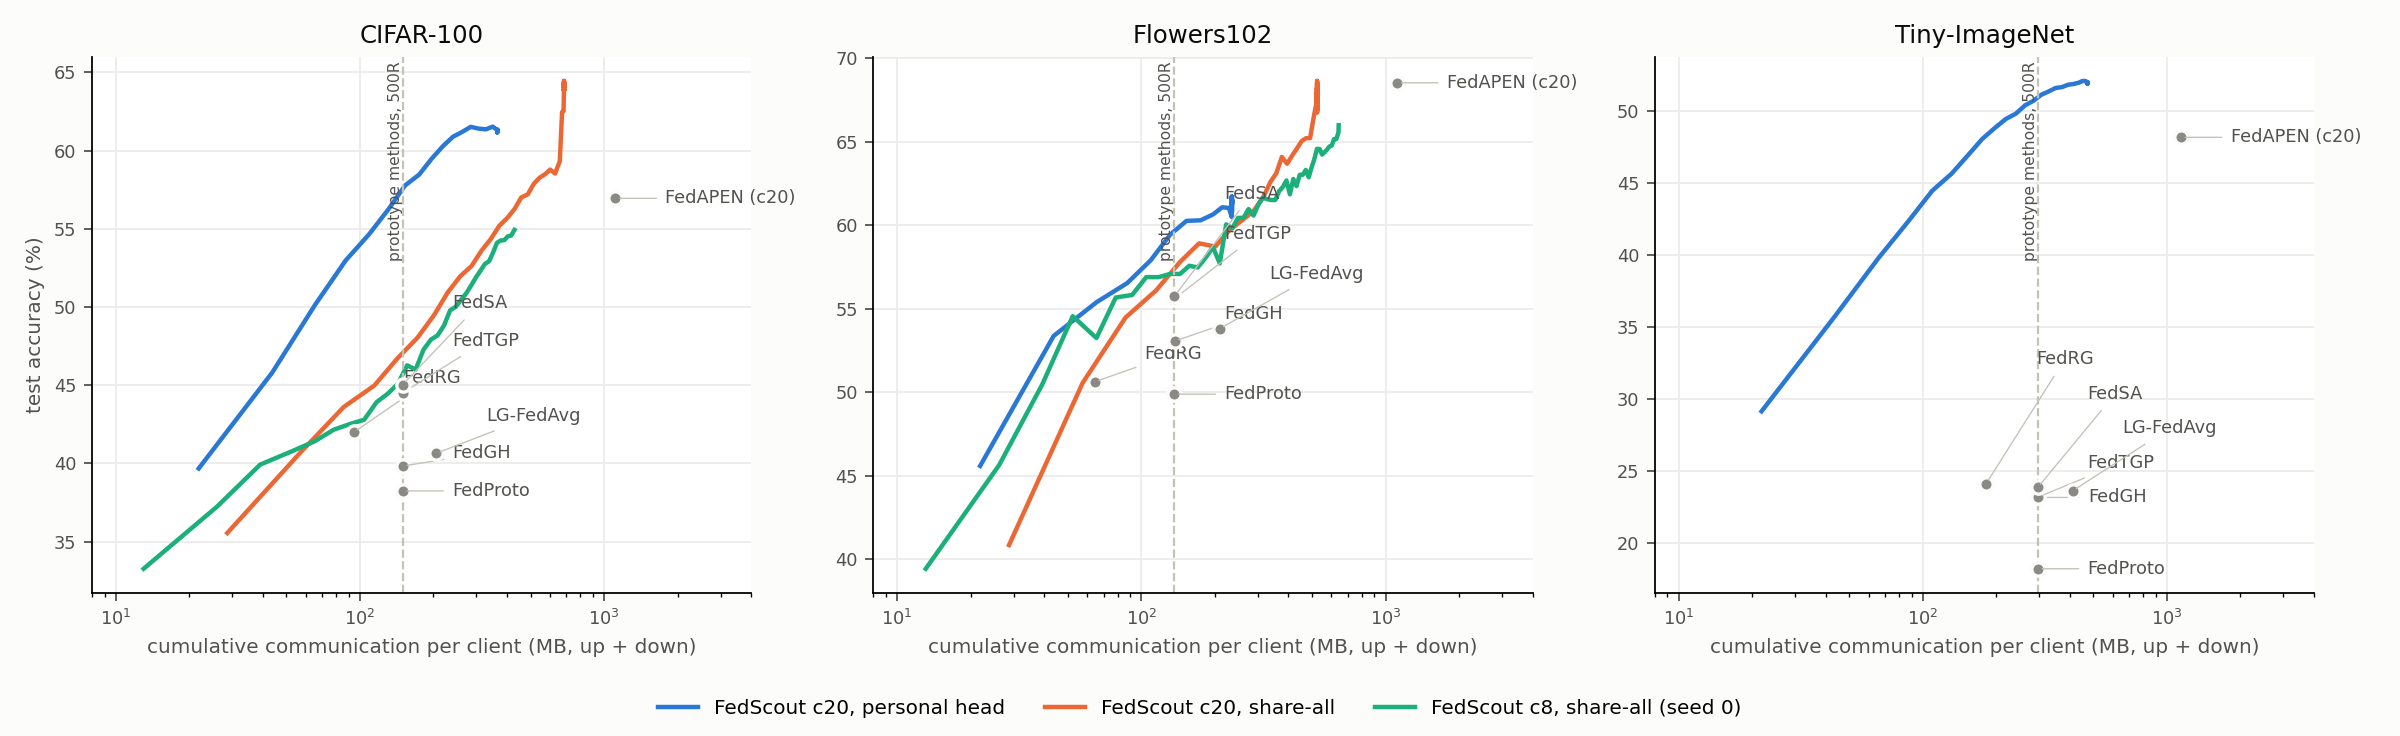
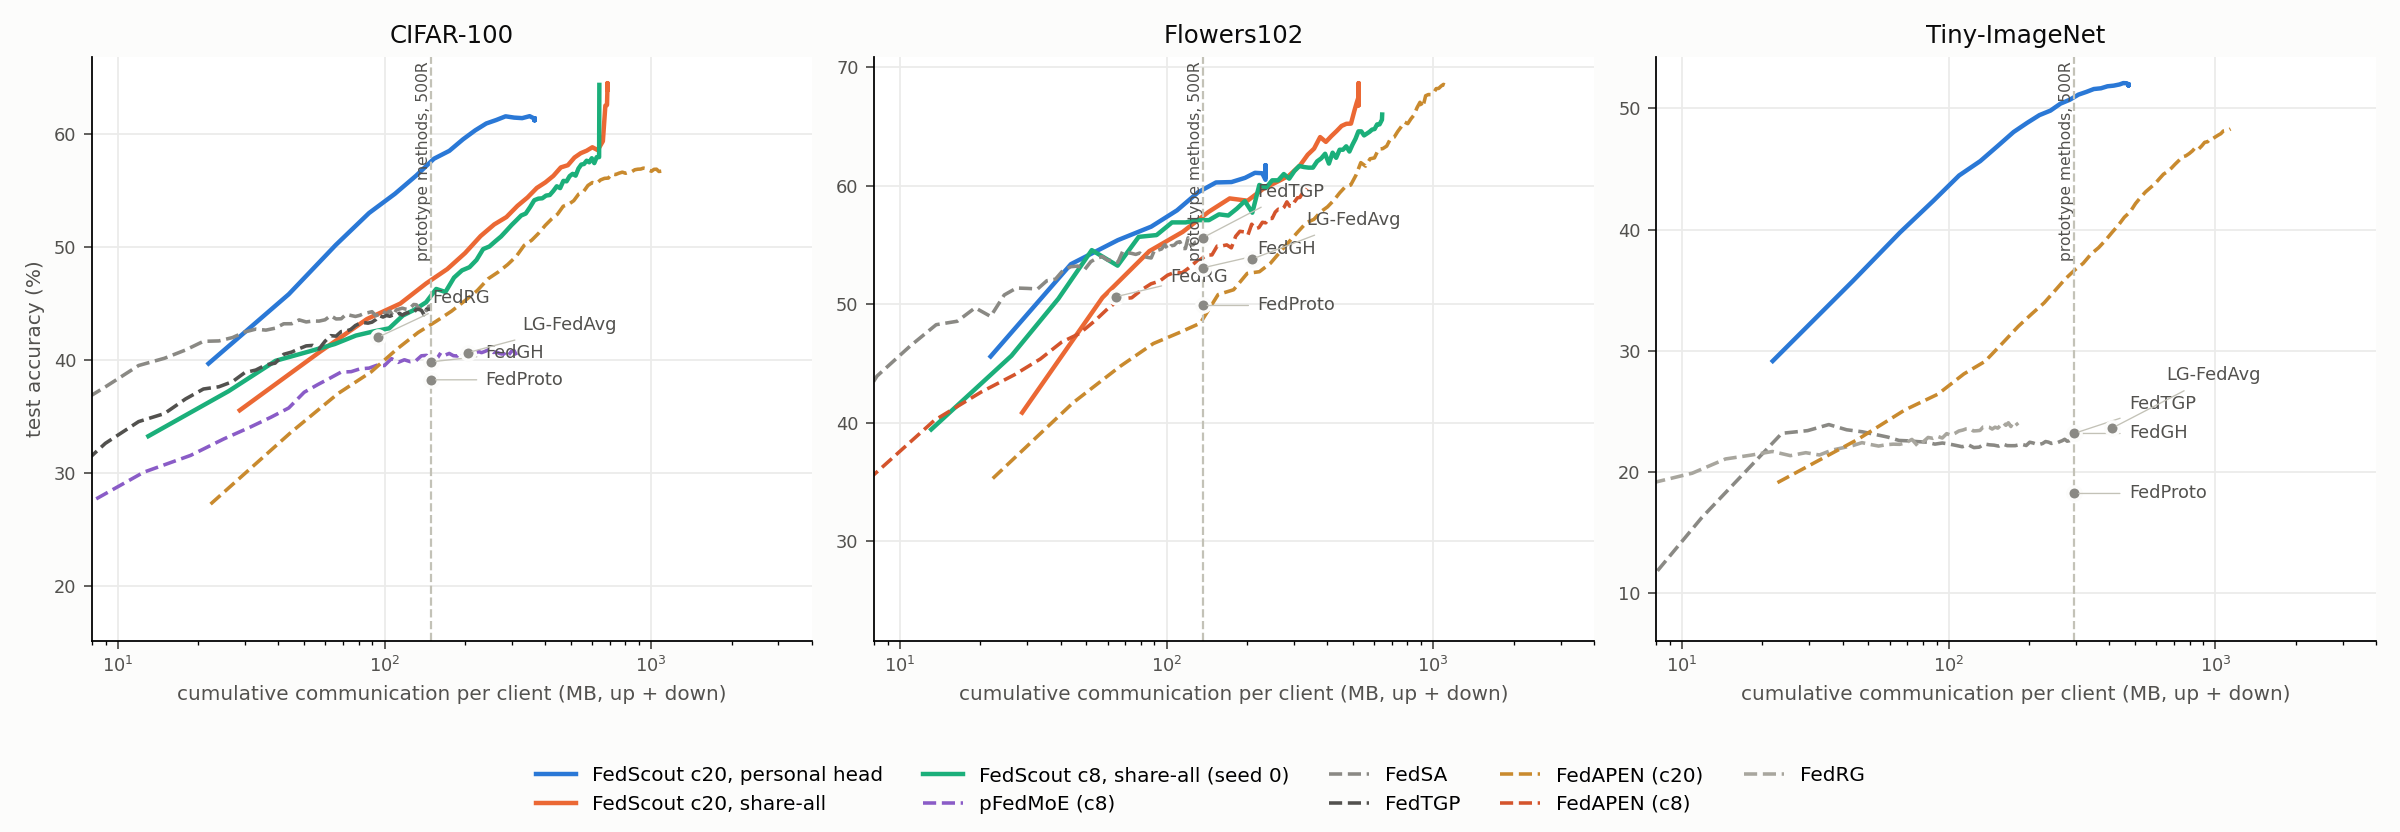
Paper direction: where knowledge flows in HtFL, and a cheap design for it
- docs/experiment_plan.md section 0: claims C1-C5 (knowledge flows only
  between same-architecture weights; heterogeneous private models add only
  the local class prior; the shared model memorizes; FedScout; efficiency),
  current evidence, risks and answers.
- docs/twin_handoff.md: summary follows the c8 / personal-head design, F3
  reworded (averaged head is weak only early), F5 (private = class prior).
- comm_vs_acc: FedTGP (CIFAR) and FedRG (Tiny) seed curves from the user's
  logs, legend spacing; figure and table regenerated.

diff --git a/system/comm_vs_acc.py b/system/comm_vs_acc.py
@@ -41,6 +41,8 @@ CURVE_BASE = [  # label, seed TSV glob, per-round floats per client (up + down),
     ("pFedMoE (c8)", "../docs/figs/data/pfedmoe_c8_{d}_s[0-2].tsv", 2 * 78064, "#8a5cc7"),
     # per-round floats as a method name = per_round_floats(name, dataset); exported on ariel from the baseline logs
     ("FedSA", "../docs/figs/data/fedsa_{d}_s[0-2].tsv", "FedSA", "#8a8984"),
+    ("FedTGP", "../docs/figs/data/fedtgp_{d}_s[0-2].tsv", "FedTGP", "#52514e"),  # user's log (-t 3, seed arg 0)
+    ("FedRG", "../docs/figs/data/fedrg_{d}_s[0-2].tsv", "FedRG", "#a8a69e"),  # user's log (-t 3, seed arg 0)
     ("FedAPEN (c20)", "../docs/figs/data/fedapen_c20_{d}_s[0-2].tsv", "FedAPEN (c20)", "#c98a2e"),
     ("FedAPEN (c8)", "../docs/figs/data/fedapen_c8_{d}_s[0-2].tsv", "FedAPEN (c8)", "#d4542c"),
 ]
@@ -102,7 +104,7 @@ if args.export:
     raise SystemExit(f"wrote {len(pts)} rounds to {args.export[1]}")
 os.makedirs(os.path.dirname(args.out), exist_ok=True)
 
-fig, axes = plt.subplots(1, 3, figsize=(15, 4.6))
+fig, axes = plt.subplots(1, 3, figsize=(15, 5.2))
 rows = []
 for j, (d, ax) in enumerate(zip(DATA, axes)):
     proto_budget = mb(per_round_floats("FedTGP", d)) * ROUNDS
@@ -153,9 +155,9 @@ leg = {}  # union over panels: a curve may exist for only some datasets (FedAPEN
 for a in axes:
     for hh, ll in zip(*a.get_legend_handles_labels()):
         leg.setdefault(ll.split(" (n=")[0], hh)
-fig.legend(list(leg.values()), list(leg), fontsize=9, frameon=False, loc="lower center", ncol=4)
+fig.legend(list(leg.values()), list(leg), fontsize=9, frameon=False, loc="lower center", ncol=5)
 fig.patch.set_facecolor("#fcfcfb")
-fig.tight_layout(rect=(0, 0.07, 1, 1))
+fig.tight_layout(rect=(0, 0.12, 1, 1))
 fig.savefig(args.out, dpi=160, facecolor=fig.get_facecolor())
 print(f"saved {args.out}")
 

diff --git a/docs/experiment_plan.md b/docs/experiment_plan.md
@@ -2,14 +2,26 @@
 
 목표: IoT-J급 IEEE 저널. 실험 규칙과 기존 결과는 `docs/twin_handoff.md`, 매일의 판정은 `system/logs/night_actions_20261117.md`.
 
-## 0. 논문 주장과 그것을 받치는 실험
+## 0. 논문 방향과 주장 (11-19 사용자 결정)
 
-| 주장 | 내용 | 받치는 실험 |
-|---|---|---|
-| C1 진단 | 증강이 없는 HtFL에서 구조 간 채널(프로토타입, 앵커, logit, 생성기)은 Local과 같다. 같은 구조 가중치 평균만 지식을 옮긴다 | 3절 본 표의 Local·HtFL 기준선, 6절 진단 |
-| C2 방법 | 공유 쌍둥이(안정) + 이기종 private 잔차(가소) + 암기 게이트 + 재정렬 + 전역 held-out α | 3절 본 표, 4절 ablation |
-| C3 효율 | 동결 후 통신 0, 쌍둥이 게이트로 private 학습·추론 연산 절감, 동결 후 특징 캐시 | 7절 통신·기기 측정 |
-| (부록) 배포 | 원래 모델만 배포해야 할 때는 I1 변형(`--scout_residual i1`)으로 약 43(Local·HtFL 수준, F1과 일치). 본 주장에서 제외(11-19 사용자 결정: 결합 logit이 본 결과). 동결 후 회복은 폐기(결합 이득 없음, screening과 충돌, I1이 더 높음) | 4절 P2 vs I1 ablation |
+**한 줄: 이기종 FL에서 지식이 실제로 어디로 흐르는지 밝히고, 그에 맞춘 싼 설계(FedScout)를 제안한다.**
+노벨티는 새 구조가 아니라 발견과 효율에 건다. 정확도는 같은 용량(c8) 기준선을 이기면 충분하고, 표적은 통신·연산·속도·분석이다.
+
+| 주장 | 내용 | 근거 (11-19 현재) | 받치는 실험 |
+|---|---|---|---|
+| C1 지식은 같은 구조끼리만 흐른다 | 증강 없는 HtFL에서 구조 간 채널(prototype, anchor, logit, 생성기)은 Local과 같고, 같은 구조의 가중치 평균만 지식을 옮긴다 | handoff F1·F2 (평균한 쌍둥이 vs 평균하지 않은 쌍둥이 +11) | 3절 Local·HtFL 기준선, 6절 진단 |
+| C2 이기종 private은 지역 클래스 분포만 더한다 | 공유+private 방법의 앙상블 이득은 "공유 모델 + log 지역 클래스 비율"로 거의 다 재현된다 | FedAPEN c8 CIFAR R150: 공유+비율 44.1 ≥ 앙상블 42.2 (private 38.1). FedScout c8 shareall: scout+비율 65.3 ≥ 결합 64.5 (Flowers), 58.8 > 54.4 (CIFAR R280). 개인 head에서 learner 기여 0~0.5 | `APENDiag shared+prior`, `ScoutEval scout_prior` (본 표 run에서 3 seed로 확인) |
+| C3 공유 모델은 암기하고, 기준선도 후반에 떨어진다 | 평균되는 작은 모델은 결국 클라이언트 데이터를 암기한다 | handoff F4 (게이트 train−held-out 0 → 9~11), FedSA Tiny 최고 R60 뒤 하락 (23.92 → R500 22.79) | 6절, 기준선 곡선 |
+| C4 설계 FedScout | 지식 전달은 작은 동종 scout(c8, backbone만 평균, 개인 head)에 맡기고, 이기종 private은 scout 위 잔차(P2)로 두되 scout이 이미 맞히는 샘플은 학습·추론에서 건너뛴다(screening, cascade). 멈춤 규칙 없이 통신량 대비 정확도 곡선으로 보고(patience 게이트는 부록의 자동 기본값) | — | 3절 본 표, 4절 ablation |
+| C5 효율 | 같은 통신량에서 가장 높고, 공유 모델 방식과 같은 정확도를 3~4배 적은 통신으로 낸다. private 학습 샘플 −70%, 추론 때 private 실행 약 25% | c20 개인 head: prototype 500R 예산에서 CIFAR +11.3, Flowers +3.6, Tiny +26.5. FedAPEN c20의 같은 통신량 대비 +7.7~+11.1. c8 Flowers 58.3 @81MB, FedAPEN c8은 282MB 필요 | `docs/figs/comm_vs_acc_draft.*` (`system/comm_vs_acc.py`), 7절 기기 측정 |
+| (부록) | shareall 변형(정확도 더 높음, 통신 2배, FedAvg-FT 패턴과 겹침), 우리 원칙을 FedAPEN에 적용(apenph), I1 배포 변형(원래 모델만 배포), c20 용량 표 | | 4절 |
+
+**위험과 대응**
+- 노벨티: 정확도 대부분이 scout에서 나오고 learner 기여가 작다. 숨기지 않고 C2로 분석의 중심에 둔다. "작은 동종 모델 + FedRep" 반론에는 C1~C3 발견과 C5 효율로 답한다.
+- 우리만 튜닝(scout lr×3, linear projector): apenph(FedAPEN + 우리 원칙), FedScout + pool projector ablation 1 run.
+- 적은 예산(c20 기준 약 25~50MB 이하)에서는 prototype 방식이 앞선다. c8 개인 head 곡선으로 확인하고, 안 되면 주장 범위를 그 이상의 예산으로 한정한다.
+- 본 표에는 500R 최종 정확도와 "같은 통신량에서의 정확도"를 함께 넣는다. Flowers 최종값은 FedAPEN이 통신 3~4배로 앞설 수 있다.
+- IoT 주장에는 Jetson Nano·Raspberry Pi 실측이 필요하다(`system/device_bench.py`).
 
 FedDSA(이중 앵커)는 쓰지 않는다(11-18 사용자 결정). 논문에서도 다루지 않는다.
 

diff --git a/docs/figs/comm_vs_acc_draft.md b/docs/figs/comm_vs_acc_draft.md
@@ -1,35 +1,37 @@
-# 통신량 대비 정확도 (초안, 2026-11-19 15:00 KST, `system/comm_vs_acc.py`)
+# 통신량 대비 정확도 (초안, 2026-11-19 16:07 KST, `system/comm_vs_acc.py`)
 
-그림: `comm_vs_acc_draft.png`. 기준선은 500R 결과 하나뿐이라 점, FedScout는 seed 평균 곡선. 예산 안 최고값은 seed 평균 곡선에서 누적 MB가 예산 이하인 라운드들의 최고값.
+그림: `comm_vs_acc_draft.png`. FedScout와 곡선이 있는 기준선(TSV, `docs/figs/data/`)은 seed 평균 곡선, 나머지 기준선은 500R 점. 예산 안 최고값은 누적 MB가 예산 이하인 라운드들의 seed 평균 곡선 최고값.
 
 | dataset | method | best within prototype-500R budget | best within FedAPEN-c20-500R budget | best overall | MB used |
 |---|---|---|---|---|---|
 | Cifar100 | FedScout c20, personal head (n=3, R500) | 56.27 | 61.54 | 61.54 | 365 |
 | Cifar100 | FedScout c20, share-all (n=3, R500) | 46.75 | 64.46 | 64.46 | 685 |
-| Cifar100 | FedScout c8, share-all (seed 0) (n=1, R330) | 45.09 | 54.93 | 54.93 | 429 |
+| Cifar100 | FedScout c8, share-all (seed 0) (n=1, R500) | 45.09 | 64.30 | 64.30 | 639 |
+| Cifar100 | pFedMoE (c8) (n=1, R500) | 40.40 | 40.92 | 40.92 | 312 |
+| Cifar100 | FedSA (n=3, R500) | 44.89 | 44.89 | 44.89 | 150 |
+| Cifar100 | FedTGP (n=3, R500) | 44.51 | 44.51 | 44.51 | 150 |
+| Cifar100 | FedAPEN (c20) (n=3, R500) | 42.42 | 56.95 | 56.95 | 1113 |
 | Cifar100 | FedProto (500R) | 38.24 | 38.24 | 38.24 | 150 |
 | Cifar100 | FedGH (500R) | 39.83 | 39.83 | 39.83 | 150 |
 | Cifar100 | LG-FedAvg (500R) | - | 40.64 | 40.64 | 205 |
 | Cifar100 | FedRG (500R) | 41.98 | 41.98 | 41.98 | 94 |
-| Cifar100 | FedTGP (500R) | 44.51 | 44.51 | 44.51 | 150 |
-| Cifar100 | FedSA (500R) | 45.02 | 45.02 | 45.02 | 150 |
-| Cifar100 | FedAPEN (c20) (500R) | - | 56.95 | 56.95 | 1113 |
 | Flowers102 | FedScout c20, personal head (n=3, R500) | 59.43 | 61.72 | 61.72 | 235 |
 | Flowers102 | FedScout c20, share-all (n=3, R500) | 56.09 | 68.64 | 68.64 | 525 |
 | Flowers102 | FedScout c8, share-all (seed 0) (n=1, R500) | 57.08 | 65.99 | 65.99 | 643 |
+| Flowers102 | FedSA (n=3, R500) | 55.59 | 55.59 | 55.59 | 137 |
+| Flowers102 | FedAPEN (c20) (n=3, R500) | 48.39 | 68.53 | 68.53 | 1114 |
+| Flowers102 | FedAPEN (c8) (n=3, R500) | 53.79 | 59.74 | 59.74 | 336 |
 | Flowers102 | FedProto (500R) | 49.88 | 49.88 | 49.88 | 137 |
 | Flowers102 | FedRG (500R) | 50.62 | 50.62 | 50.62 | 65 |
 | Flowers102 | FedGH (500R) | 53.06 | 53.06 | 53.06 | 137 |
 | Flowers102 | LG-FedAvg (500R) | - | 53.80 | 53.80 | 209 |
 | Flowers102 | FedTGP (500R) | 55.60 | 55.60 | 55.60 | 137 |
-| Flowers102 | FedSA (500R) | 55.75 | 55.75 | 55.75 | 137 |
-| Flowers102 | FedAPEN (c20) (500R) | - | 68.53 | 68.53 | 1114 |
 | TinyImagenet | FedScout c20, personal head (n=3, R500) | 50.72 | 52.09 | 52.09 | 472 |
+| TinyImagenet | FedSA (n=3, R500) | 23.92 | 23.92 | 23.92 | 296 |
+| TinyImagenet | FedRG (n=3, R500) | 24.15 | 24.15 | 24.15 | 182 |
+| TinyImagenet | FedAPEN (c20) (n=3, R500) | 36.66 | 48.31 | 48.31 | 1139 |
 | TinyImagenet | FedProto (500R) | 18.24 | 18.24 | 18.24 | 296 |
 | TinyImagenet | FedGH (500R) | 23.19 | 23.19 | 23.19 | 296 |
 | TinyImagenet | FedTGP (500R) | 23.20 | 23.20 | 23.20 | 296 |
 | TinyImagenet | LG-FedAvg (500R) | - | 23.64 | 23.64 | 410 |
-| TinyImagenet | FedSA (500R) | 23.88 | 23.88 | 23.88 | 296 |
-| TinyImagenet | FedRG (500R) | 24.15 | 24.15 | 24.15 | 182 |
-| TinyImagenet | FedAPEN (c20) (500R) | - | 48.18 | 48.18 | 1139 |
 budgets (MB per client): Cifar100: prototype 150, FedAPEN-c20 1113, Flowers102: prototype 137, FedAPEN-c20 1114, TinyImagenet: prototype 296, FedAPEN-c20 1139

diff --git a/docs/twin_handoff.md b/docs/twin_handoff.md
@@ -8,10 +8,10 @@
 
 ## 1. 연구 한 줄 요약
 
+**방향(11-19): 이기종 FL에서 지식이 실제로 어디로 흐르는지 밝히고, 그에 맞춘 싼 설계(FedScout)를 제안한다.** 주장과 근거는 `docs/experiment_plan.md` 0절.
 여러 제조사 IoT 기기(용량 등급이 다름, 증강 불가, 극단적 label skew)의 이기종 FL.
-모든 기기가 **같은 구조의 작은 쌍둥이(CIFAR ResNet-20, 0.27M)** 를 하나 더 두고 backbone만 FedAvg 하며,
-각자의 이기종 private 모델은 쌍둥이 위에 **잔차**로 얹는다(예측 = 쌍둥이 logit + private logit).
-쌍둥이가 클라이언트 데이터 전체를 암기하기 시작하면 **게이트**가 쌍둥이를 고정하고 공유(통신)를 끊는다.
+모든 기기가 **같은 구조의 작은 scout(CIFAR ResNet-8, MLPerf Tiny 크기)** 을 하나 더 두고 backbone만 FedAvg 하며(개인 head),
+각자의 이기종 private 모델은 scout 위에 **잔차**로 얹는다(예측 = scout logit + α·private logit). scout이 이미 맞히는 샘플은 private이 학습·추론에서 건너뛴다.
 
 ## 2. 진단 (논문의 핵심 기여 후보)
 
@@ -19,7 +19,8 @@
 |---|---|---|
 | F1 | 증강이 없으면 교차 구조 채널(프로토타입, logit, 생성기)은 Local과 차이가 없다 | 기준선 표 (Local 500R은 아직 필요) |
 | F2 | 같은 구조의 가중치 평균만 지식을 옮긴다 | 평균한 쌍둥이 vs 평균하지 않은 쌍둥이: +11 (500R) |
-| F3 | 공유+private 계열(FedAPEN 등)은 공유 모델 head까지 평균한다. label skew에서는 이 때문에 공유 모델이 개인화 평가에서 무너진다 | head까지 평균하면 쌍둥이 단독 17.8% (A1). 수정판 FedAPEN 공유 모델도 R10에 6.8% |
+| F3 | 공유+private 계열(FedAPEN 등)은 공유 모델 head까지 평균한다. 평균 head는 개인화 평가에서 초반에 약하다("붕괴"는 초반에만 해당: FedAPEN c20 공유 모델은 500R에 Flowers 47·Tiny 28). 오히려 평균 head 아래서 학습한 backbone이 더 좋다(shareall c20 CIFAR 64.5 vs 개인 head 61.5) | head까지 평균하면 쌍둥이 단독 17.8% (A1). 수정판 FedAPEN 공유 모델도 R10에 6.8% |
+| F5 | 이기종 private은 지역 클래스 분포만 더한다 | FedAPEN c8: 공유 + log 지역 클래스 비율 44.1 ≥ 앙상블 42.2. FedScout c8 shareall: scout + 비율 ≥ 결합 (Flowers 65.3 vs 64.5, CIFAR 58.8 vs 54.4) |
 | F4 | 평균되는 쌍둥이는 결국 클라이언트 데이터 전체를 암기한다 | 게이트의 train−held-out 차이가 0에서 9~11까지 커짐 |
 
 **적용 범위 서술 원칙(사용자 결정 11-18):** 센서 데이터셋을 더 찾지 않고, 논문에 범위를 정직하게 쓴다(데이터 부족에 따른 암기가 문제인 경우에 효과, 시간에 따른 분포 이동에는 해당 없음; HAR은 공유 모델이 R10에 96%로 포화해 제외).
